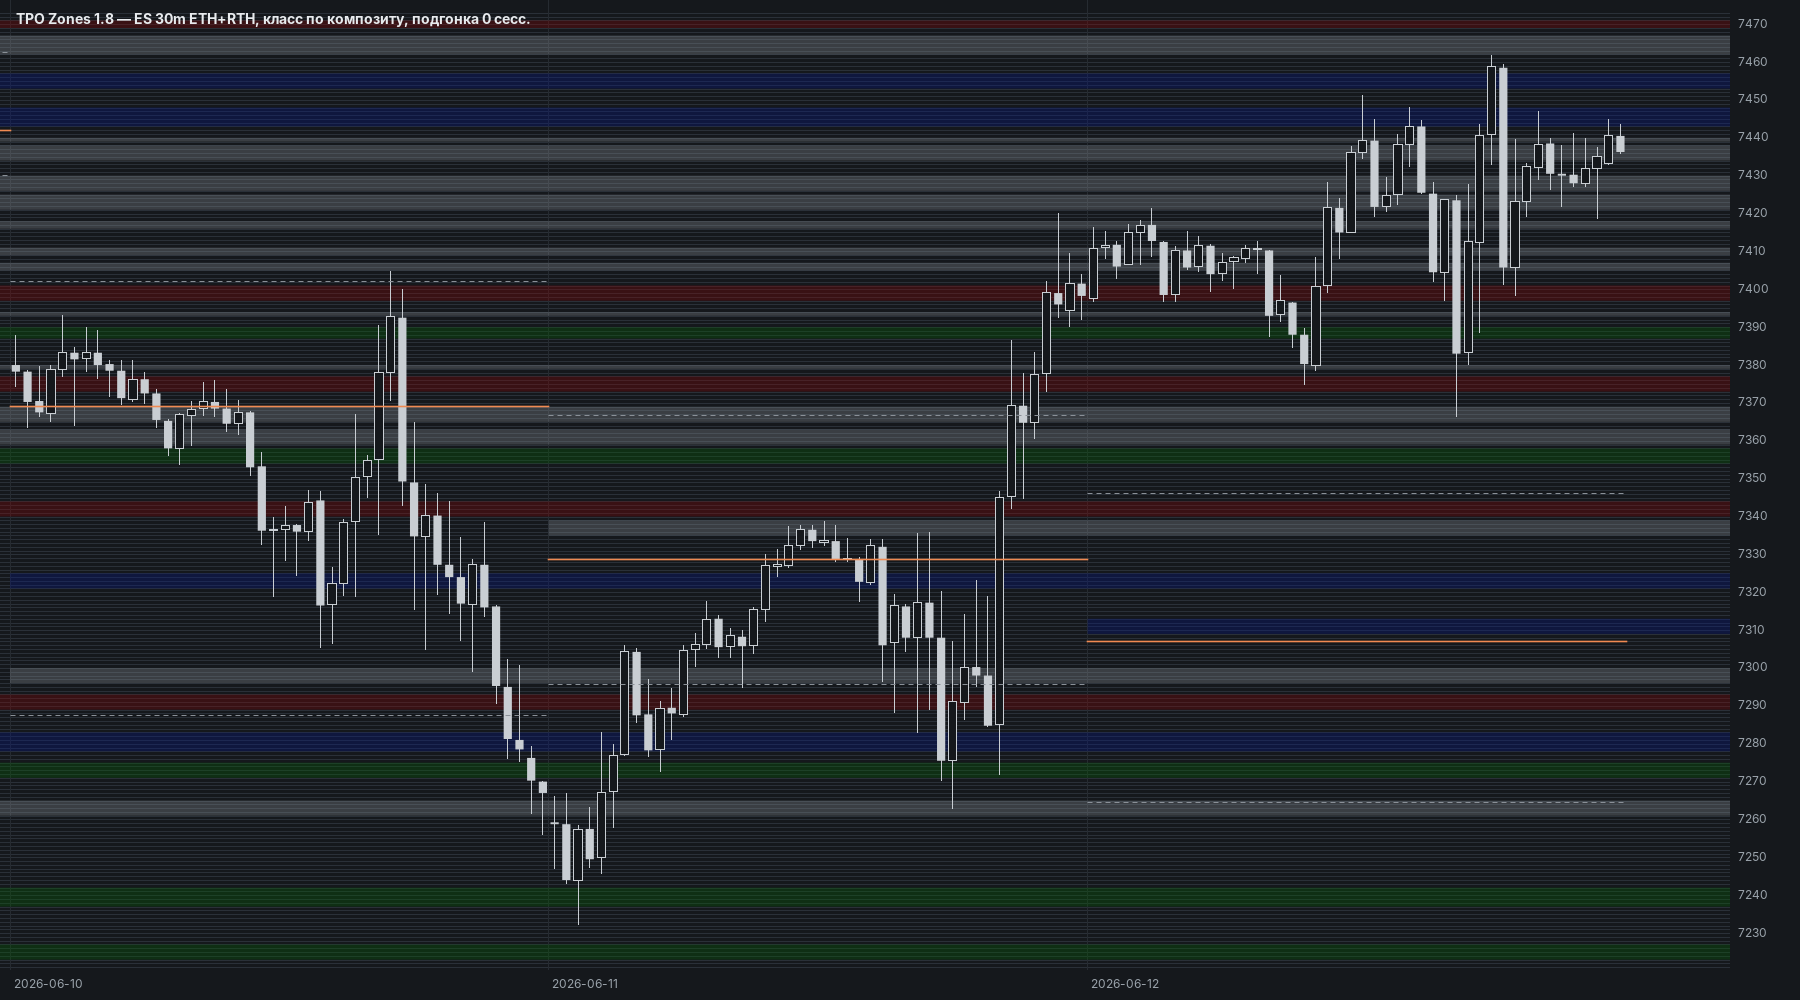
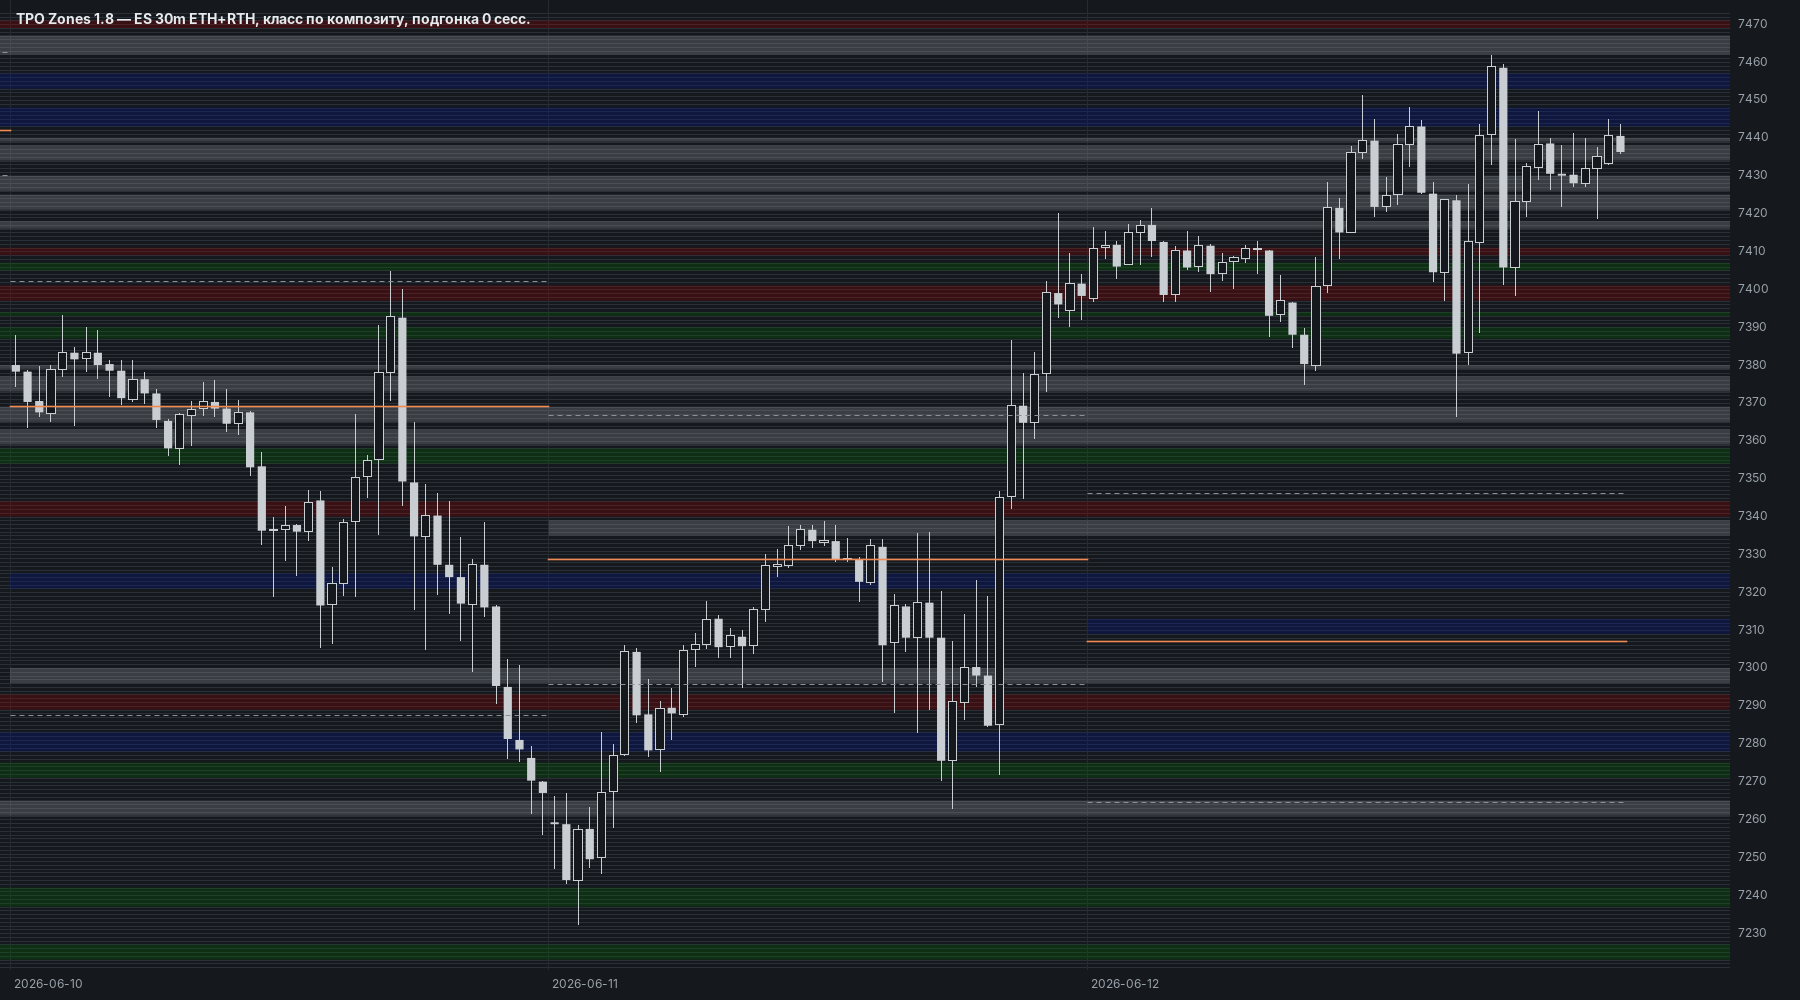
1.8: narrow zones are no longer grey by default
The user picked the screenshot variant with both narrow-grey rules off:
gridNarrowGrey (a body cluster narrower than one TPO square) and
oneSquareGrey (a zone up to 2 pts on the chart) now default to false in
Params and in the study; the switches stay. A cluster narrower than a
square is still drawn as one square.

Last session (history as in MotiveWave): grey 425 -> 392 of 733, green
112 -> 133, red 86 -> 98, blue 110 - inside composites the narrow zones
are still greyed by the composite sync, outside by the green-over-red
contact. vs manual: colour 15% -> 17%, found 42%, IoU>=0.5 19%. The
default equals the screenshot variant (Dump and Preview identical).
SDK calls same as 1.7.

Claude-Session: https://claude.ai/code/session_01PTkojuTGEQunFVKHqryAjs

diff --git a/motivewave/src/patterns/zones/ZoneEngine.java b/motivewave/src/patterns/zones/ZoneEngine.java
@@ -124,7 +124,7 @@ public final class ZoneEngine {
                                                   // графика; после подгонки по телам край — к ближайшей границе, пополам — квадрат целиком
                                                   // (принт в приоритете); 0 — выкл.
         public double gridOffsetPts = 0;          // ... сдвиг сетки квадратов от целых, п.
-        public boolean gridNarrowGrey = true;     // скопление тел уже одного квадрата (gridPts; без сетки — 1 п.) — зона в один квадрат,
+        public boolean gridNarrowGrey = false;     // скопление тел уже одного квадрата (gridPts; без сетки — 1 п.) — зона в один квадрат,
                                                   // всегда серая
         public boolean sessMinor = true;          // минорные (серые) зоны: слабый узел сессии (вершина < sessPeakShare главного или
                                                   // < sessMinPeak TPO) — серая зона там, где нет других
@@ -140,7 +140,7 @@ public final class ZoneEngine {
 
         // ---- серые и цвет (1.8)
         public boolean gridNarrowKeepBlue = true; // узкие (gridNarrowGrey, oneSquareGrey) — кроме синей: зона у ядра композита остаётся синей
-        public boolean oneSquareGrey = true;      // узкая зона на графике (не шире oneSquareMaxPts; в т. ч. суженная раскладкой) — всегда серая
+        public boolean oneSquareGrey = false;      // узкая зона на графике (не шире oneSquareMaxPts; в т. ч. суженная раскладкой) — всегда серая
         public double oneSquareMaxPts = 2.0;      // ... узкая — не шире стольких п.
         public boolean compRejGrey = true;        // красная / зелёная, колеблющаяся в своём композите, — серая: в днях композита, задавшего ей
                                                   // цвет (с её появления), ≥ compRejMin отторжений и перевес за цвет (красная — снизу, зелёная —

diff --git a/motivewave/src/patterns/zones/TpoZonesStudy.java b/motivewave/src/patterns/zones/TpoZonesStudy.java
@@ -132,8 +132,8 @@ public class TpoZonesStudy extends Study {
         g.addRow(new DoubleDescriptor(CS_DROP, "... узел — строки не ниже вершины на долю её высоты", 0.25, 0.05, 0.6, 0.05));
         g.addRow(new BooleanDescriptor(CS_VA, "... у краёв VA композита — главная поддержка у VAL и главное сопротивление у VAH, снаружи VA", true));
         g.addRow(new DoubleDescriptor(CS_TOL, "... «снаружи VA» — заходит внутрь не больше, п.", 1.0, 0, 10, 0.25));
-        g.addRow(new BooleanDescriptor(GRID_GREY, "Скопление тел уже одного квадрата TPO — зона в один квадрат, серая", true));
-        g.addRow(new BooleanDescriptor(ONE_SQ, "Узкая зона — всегда серая", true));
+        g.addRow(new BooleanDescriptor(GRID_GREY, "Скопление тел уже одного квадрата TPO — зона в один квадрат, серая", false));
+        g.addRow(new BooleanDescriptor(ONE_SQ, "Узкая зона — всегда серая", false));
         g.addRow(new DoubleDescriptor(ONE_SQ_MAX, "... узкая — не шире, п.", 2.0, 0.25, 10, 0.25));
         g.addRow(new BooleanDescriptor(GRID_BLUE, "Узкие серые — кроме синих: узкая зона у ядра композита остаётся синей", true));
         g.addRow(new BooleanDescriptor(CR, "Красная / зелёная, колеблющаяся в своём композите, — серая", true));
@@ -372,9 +372,9 @@ public class TpoZonesStudy extends Study {
         p.noOverlap = st.getBoolean(NO_OVERLAP, true);
         p.gridPts = st.getDouble(GRID, 1.0);
         p.gridOffsetPts = st.getDouble(GRID_OFF, 0);
-        p.gridNarrowGrey = st.getBoolean(GRID_GREY, true);
+        p.gridNarrowGrey = st.getBoolean(GRID_GREY, false);
         p.gridNarrowKeepBlue = st.getBoolean(GRID_BLUE, true);
-        p.oneSquareGrey = st.getBoolean(ONE_SQ, true);
+        p.oneSquareGrey = st.getBoolean(ONE_SQ, false);
         p.oneSquareMaxPts = st.getDouble(ONE_SQ_MAX, 2.0);
         p.compRejGrey = st.getBoolean(CR, true);
         p.compRejRatio = st.getDouble(CR_RATIO, 2.0);

diff --git a/motivewave/HANDOFF.md b/motivewave/HANDOFF.md
@@ -129,8 +129,9 @@
 - Инструменты для разбора: `parity/CompView.java` (композиты рамками поверх баров), `parity/ProfView.java` (профили RTH-дней
   как их видит алгоритм: узлы → зоны / подтверждения, цвет), `parity/NodesView.java` (профиль композита, узлы, VA, зоны).
 
-- **Проверено после синхронизации, не внедрено** (серых 425 из 733, из них 233 — синхронизация): узкие не серые (правила
-  `gridNarrowGrey` / `oneSquareGrey` выкл.) → 392 серых, узкие подбирают синхронизация и стык; колебания 1.5:1 вместо
+- **Внедрено 18.11 по просьбе пользователя:** узкие не серые — `gridNarrowGrey` и `oneSquareGrey` по умолчанию выключены
+  (серых 425 → 392 из 733, цвет 15% → 17%; узкие внутри композитов всё равно серит синхронизация, вне — стык).
+- **Проверено после синхронизации, не внедрено: колебания 1.5:1 вместо
   2:1 → 423; синхронизация только для вторичных композитов → 257 серых, цвет 15% → 26%, но в первичном декабре 2023
   снова стена зелёных — «не внедряем». Рычаг серости — синхронизация и определение первичного.
 

diff --git a/motivewave/HISTORY.md b/motivewave/HISTORY.md
@@ -31,6 +31,8 @@
   хаи): серых 6 из 16 вместо почти всех, июнь 2024: 2 из 14 вместо 10.
   Синхронизация с профилем композита: одна истинная зона на узел профиля композита, минорные серые; главные поддержка и
   сопротивление у краёв VA композита, только снаружи VA. Серых 216 → 425 (55%), цвет с ручными 26% → 15%.
+  Узкие зоны больше не серые по умолчанию (правила «скопление уже квадрата» и «узкая ≤ 2 п.» выключены): серых 425 → 392,
+  цвет с ручными 15% → 17%.
 - **1.7** (ветка `zones-1.7`) — сессионные зоны по умолчанию: узлы RTH TPO каждой сессии (вершина ≥ 50%
   главного узла дня), подогнанные по телам свечей сессии ETH + RTH, 1–8 п.; первая зона на уровне главная —
   узел ближе 3 п. к существующей зоне её подтверждает, младшая налезающая зона не рисуется, между зонами
